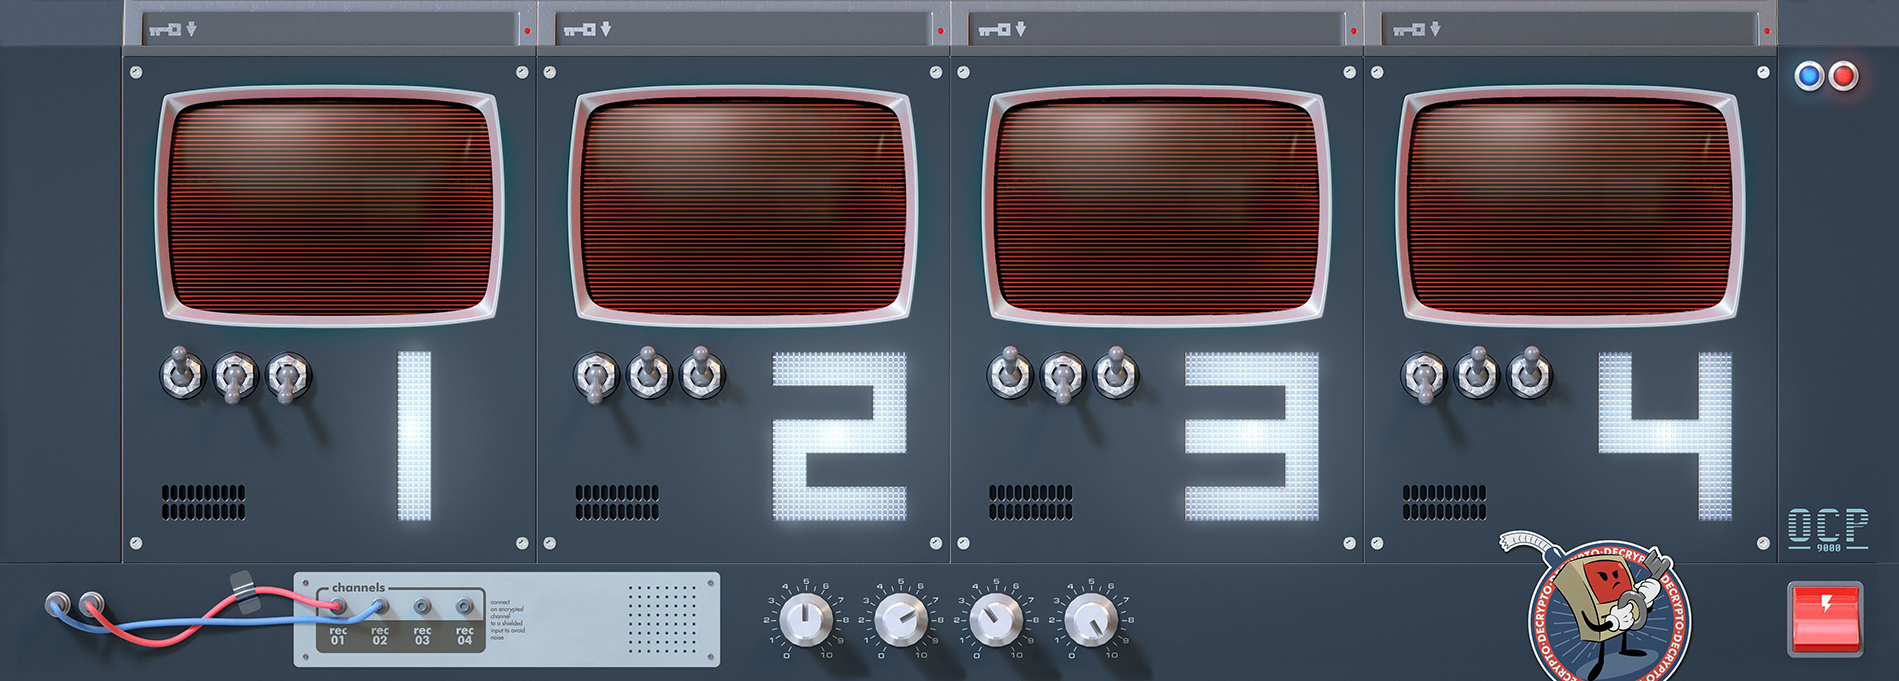
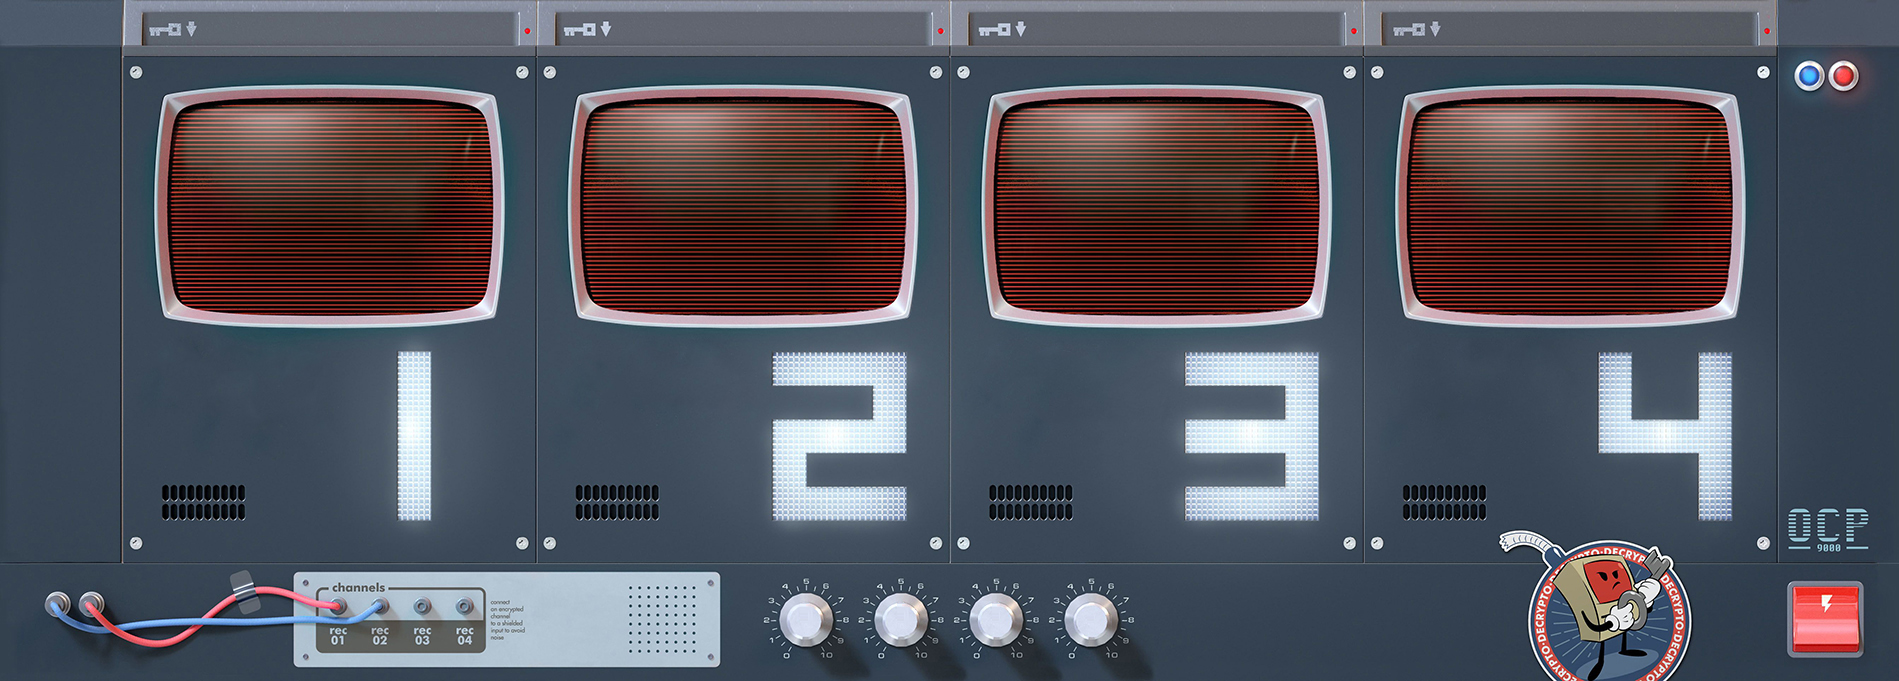
Tumblers added

diff --git a/public/app.jsx b/public/app.jsx
@@ -26,7 +26,8 @@ class Player extends React.Component {
         return (
             <div className={cs("player", {
                 offline: !~data.onlinePlayers.indexOf(id),
-                self: id === data.userId
+                self: id === data.userId,
+                ready: data.phase === 2 && ~data.readyPlayers.indexOf(id)
             })}
                  onTouchStart={(e) => e.target.focus()}
                  data-playerId={id}>
@@ -412,10 +413,11 @@ class Game extends React.Component {
         window.hyphenate = createHyphenator(hyphenationPatternsRu);
         window.hyphenateEn = createHyphenator(hyphenationPatternsEnUs);
         this.tokenParams = {};
-        this.generateTokenParams();
+        this.viewParams = {};
+        this.generateViewParams();
     }
 
-    generateTokenParams() {
+    generateViewParams() {
         [0, 1].forEach((index) => {
             ["black", "white"].forEach((color) => {
                 ["fail", "hack"].forEach((kind) => {
@@ -423,6 +425,36 @@ class Game extends React.Component {
                 });
             });
         });
+        ["black", "white"].forEach((color) => {
+            Array(12).fill(null).forEach((mda, index) => {
+                this.viewParams[`${color}-tumbler-${index}`] = this.getRandomInt(2);
+            });
+            Array(4).fill(null).forEach((mda, index) => {
+                this.viewParams[`${color}-knob-${index}`] = this.getRandomInt(11);
+            });
+            Array(2).fill(null).forEach((mda, index) => {
+                this.viewParams[`${color}-lamp-${index}`] = this.getRandomInt(2);
+            });
+            this.viewParams[`${color}-switch-`] = this.getRandomInt(2);
+            this.viewParams[`${color}-sticker-`] = 0;
+        });
+    }
+
+    handleClickViewParam(color, kind, index) {
+        let state, newState;
+        state = newState = this.viewParams[`${color}-${kind}-${index}`] || this.viewParams[`${color}-${kind}-`];
+        if (~["tumbler", "switch"].indexOf(kind))
+            newState = (state ? 0 : 1);
+        else if (kind === "knob")
+            newState = this.getRandomInt(11);
+        else if (kind === "sticker" && !state && this.getRandomInt(10) === 9)
+            newState = 1;
+        this.viewParams[`${color}-${kind}-${index}`] = newState;
+        if (kind !== "sticker") {
+            this.viewParams[`${color}-lamp-0`] = this.getRandomInt(2);
+            this.viewParams[`${color}-lamp-1`] = this.getRandomInt(2);
+        }
+        this.setState(this.state);
     }
 
     handleClickToken(index, color, kind) {
@@ -430,14 +462,15 @@ class Game extends React.Component {
         this.setState(this.state);
     }
 
+    getRandomInt(max) {
+        return Math.floor(Math.random() * Math.floor(max));
+    }
+
     getRandomParams() {
-        const getRandomInt = (max) => {
-            return Math.floor(Math.random() * Math.floor(max));
-        };
         return {
-            left: `${getRandomInt(150)}px`,
-            top: `${getRandomInt(147)}px`,
-            transform: `rotate(${getRandomInt(360)}deg)`
+            left: `${this.getRandomInt(150)}px`,
+            top: `${this.getRandomInt(147)}px`,
+            transform: `rotate(${this.getRandomInt(360)}deg)`
         };
     }
 
@@ -652,7 +685,10 @@ class Game extends React.Component {
                         let prevTime = this.state.time,
                             time = prevTime - (new Date() - timeStart);
                         this.setState(Object.assign({}, this.state, {time: time}));
-                        if (this.state.timed && time < 6000 && ((Math.floor(prevTime / 1000) - Math.floor(time / 1000)) > 0) && !parseInt(localStorage.muteSounds))
+                        if (this.state.timed && time < 6000
+                            && ((Math.floor(prevTime / 1000) - Math.floor(time / 1000)) > 0)
+                            && !parseInt(localStorage.muteSounds)
+                            && !data.roundAnim)
                             this.timerSound.play();
                     }
                 }, 100);
@@ -671,6 +707,55 @@ class Game extends React.Component {
                                     className={cs("stand-code", `stand-code-${index}`)}>
                                     <div className="stand-code-word">{hyphenate(word) || "?"}</div>
                                 </div>) : "")}
+                            <div className="stand-controls">
+                                <div className="stand-tumblers">
+                                    {[0, 1, 2, 3].map((groupIndex) =>
+                                        <div className="stand-tumblers-group">{[0, 1, 2].map((tumbleIndex) => {
+                                            const index = groupIndex * 3 + tumbleIndex;
+                                            return <div
+                                                className={cs("stand-tumbler",
+                                                    playerTeam,
+                                                    `stand-tumbler-${game.viewParams[`${playerTeam}-tumbler-${index}`]}`)}
+                                                onClick={() => game.handleClickViewParam(playerTeam,
+                                                    "tumbler",
+                                                    index
+                                                )}/>;
+                                        })
+                                        }</div>)}
+                                </div>
+                                <div className="stand-knobs">{[0, 1, 2, 3].map((knobIndex) =>
+                                    <div
+                                        className={cs("stand-knob", playerTeam)}
+                                        style={{transform: `rotate(${game.viewParams[`${playerTeam}-knob-${knobIndex}`] * 30 - 155}deg)`}}
+                                        onClick={() => game.handleClickViewParam(playerTeam,
+                                            "knob",
+                                            knobIndex
+                                        )}/>)
+                                }</div>
+                                <div className="stand-lamps">{[0, 1].map((lampIndex) =>
+                                    <div
+                                        className={cs("stand-lamp",
+                                            playerTeam,
+                                            `stand-lamp-ind-${lampIndex}`,
+                                            `stand-lamp-${game.viewParams[`${playerTeam}-lamp-${lampIndex}`]}`)}/>)
+                                }</div>
+                                <div
+                                    className={cs("stand-switch",
+                                        playerTeam,
+                                        `stand-switch-${game.viewParams[`${playerTeam}-switch-`]}`)}
+                                    onClick={() => game.handleClickViewParam(playerTeam,
+                                        "switch",
+                                        ""
+                                    )}/>
+                                <div
+                                    className={cs("stand-sticker",
+                                        playerTeam,
+                                        `stand-sticker-${game.viewParams[`${playerTeam}-sticker-`]}`)}
+                                    onClick={() => game.handleClickViewParam(playerTeam,
+                                        "sticker",
+                                        ""
+                                    )}/>
+                            </div>
                         </div>
                         <Team color="black" data={data} game={game}
                               playerTeam={!isSpectator && playerTeam === "black"}/>

diff --git a/public/style.css b/public/style.css
@@ -260,6 +260,7 @@ body.dark-theme {
     padding: 0 51px;
     box-sizing: border-box;
     align-self: center;
+    position: relative;
 }
 
 .stand.black {
@@ -423,7 +424,7 @@ body.dark-theme {
 
 .player {
     background: #f4f4f4;
-    padding: 3px 1px;
+    padding: 3px 4px;
 }
 
 .white .players .player:nth-child(odd) {
@@ -855,4 +856,142 @@ body.dark-theme {
 
 .white .words-input-title {
     left: 21px;
+}
+
+.stand-tumblers {
+    position: absolute;
+    top: 142px;
+    left: 82px;
+    display: flex;
+}
+
+.stand-tumblers-group {
+    display: flex;
+    margin-right: 106px;
+}
+
+.stand-tumbler {
+    width: 37px;
+    height: 51px;
+    margin-left: -14px;
+    background-size: cover;
+}
+
+.black.stand-tumbler-0 {
+    background-image: url(media/tumbler_black.png);
+}
+
+.white.stand-tumbler-0 {
+    background-image: url(media/tumbler_white.png);
+}
+
+.black.stand-tumbler-1 {
+    background-image: url(media/tumbler_black_down.png);
+}
+
+.white.stand-tumbler-1 {
+    background-image: url(media/tumbler_white_down.png);
+}
+
+.stand-lamps {
+    position: absolute;
+    right: 18px;
+    top: 20px;
+    display: flex;
+}
+
+.stand-lamp {
+    width: 24px;
+    height: 24px;
+    background-size: cover;
+    margin-right: -8px;
+    opacity: 0.7;
+}
+
+.stand-lamp-0 {
+    visibility: hidden;
+}
+
+.stand-lamp-ind-0 {
+    background-image: url(media/lamp1.png);
+}
+
+.stand-lamp-ind-1 {
+    background-image: url(media/lamp2.png);
+}
+
+.stand-switch {
+    position: absolute;
+    right: 17px;
+    width: 28px;
+    height: 29px;
+    bottom: 11px;
+    background-size: contain;
+}
+
+.black.stand-switch {
+    background-image: url(media/switch_black.png);
+}
+
+.white.stand-switch {
+    background-image: url(media/switch_white.png);
+}
+
+.black.stand-switch-1 {
+    background-image: url(media/switch_black_on.png);
+}
+
+.white.stand-switch-1 {
+    background-image: url(media/switch_white_on.png);
+}
+
+.stand-sticker {
+    position: absolute;
+    right: 71px;
+    bottom: 0;
+    width: 79px;
+    height: 71px;
+    background-size: cover;
+}
+
+.black.stand-sticker {
+    right: 78px;
+}
+
+.stand-sticker-0 {
+    opacity: 0;
+}
+
+.black.stand-sticker-1 {
+    background-image: url(media/sticker_black.png);
+}
+
+.white.stand-sticker-1 {
+    background-image: url(media/sticker_white.png);
+}
+
+.stand-knobs {
+    position: absolute;
+    top: 251px;
+    left: 330px;
+    display: flex;
+}
+
+.stand-knob {
+    width: 20px;
+    height: 20px;
+    margin-right: 20px;
+    background-size: cover;
+}
+
+.black.stand-knob {
+    background-image: url(media/knob_black.png);
+}
+
+.white.stand-knob {
+    background-image: url(media/knob_white.png);
+}
+
+.player.ready .player-color {
+    box-shadow: 0 0 0    3px #70d91d99;
 }

diff --git a/module.js b/module.js
@@ -402,7 +402,18 @@ function init(wsServer, path) {
                             if (~guess.votes.indexOf(user))
                                 guess.votes.splice(guess.votes.indexOf(user), 1);
                         });
-                        if (guessList.every((item) => item.code.join() !== code.join())) {
+                        if (guessList.every((item, index) => {
+                            const result = item.code.join() !== code.join();
+                            if (!result && !~guessList[index].votes.indexOf(user)) {
+                                guessList.forEach((guess) => {
+                                    if (~guess.votes.indexOf(user))
+                                        guess.votes.splice(guess.votes.indexOf(user), 1);
+                                });
+                                guessList[index].votes.push(user);
+                                updateState();
+                            }
+                            return result;
+                        })) {
                             guessList.push({
                                 code,
                                 player: user,
